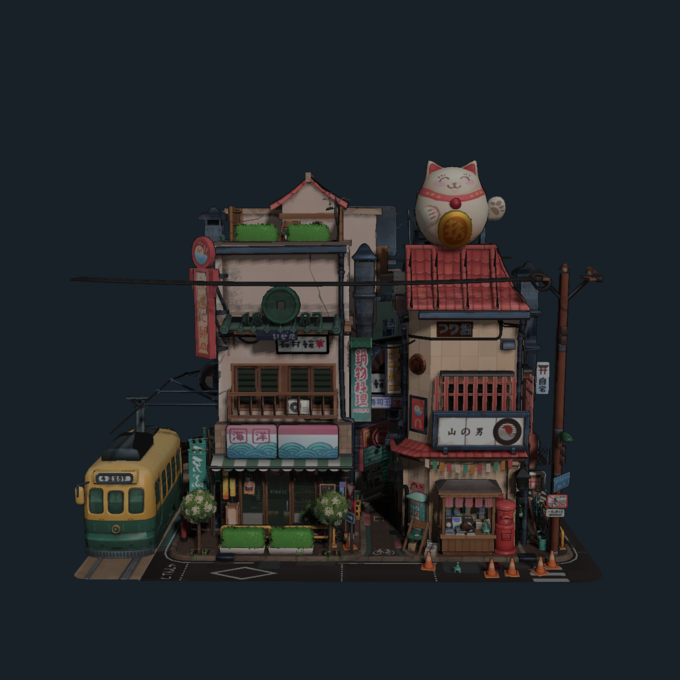
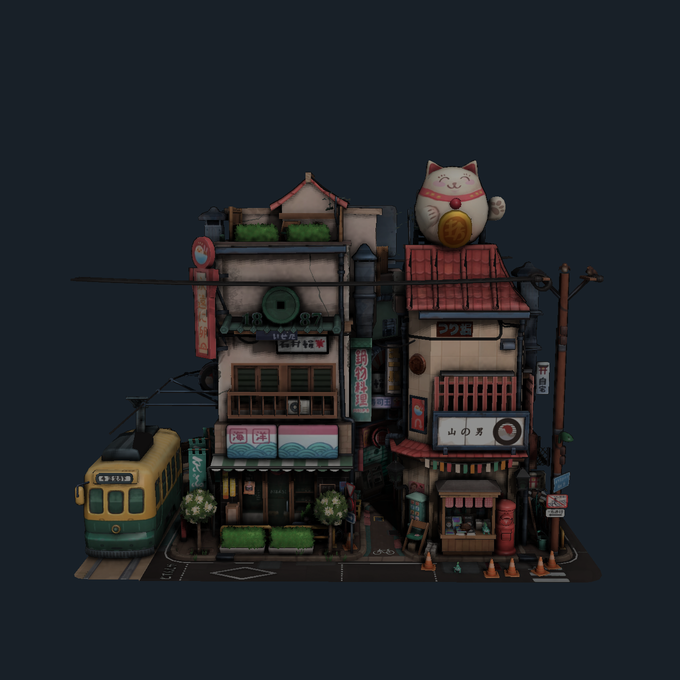
docs(readme): show ambient occlusion in the glTF examples
Add `ssao: true` to the Little Tokyo snippets and demo links in the root
and maquette-gltf READMEs and to the package README example, re-render
both images with AO and cache-bust them.

diff --git a/crates/maquette-gltf/README.md b/crates/maquette-gltf/README.md
@@ -34,12 +34,13 @@ Model reference: [Little Tokyo](https://sketchfab.com/3d-models/little-tokyo-dio
   auto_fit: false,
   background: "#182028",
   shadows: true,
+  ssao: true,
   time: 5.4,
 ))
 ```
 
 </td>
-<td><a href="https://bernsteining.github.io/maquette/?model=tokyo.glb&camera=%5B-71.915%2C159.083%2C1026.801%5D&center=%5B-86%2C5%2C-25%5D&up=%5B0%2C0.989%2C-0.145%5D&auto_center=false&auto_fit=false&background=%22%23182028%22&shadows=true&time=5.4" title="Open in the live demo"><img src="https://raw.githubusercontent.com/bernsteining/maquette/master/examples/readme/gltf-tokyo.png?v=3" width="340" alt="Little Tokyo diorama, front view" /></a></td>
+<td><a href="https://bernsteining.github.io/maquette/?model=tokyo.glb&camera=%5B-71.915%2C159.083%2C1026.801%5D&center=%5B-86%2C5%2C-25%5D&up=%5B0%2C0.989%2C-0.145%5D&auto_center=false&auto_fit=false&background=%22%23182028%22&shadows=true&ssao=true&time=5.4" title="Open in the live demo"><img src="https://raw.githubusercontent.com/bernsteining/maquette/master/examples/readme/gltf-tokyo.png?v=4" width="340" alt="Little Tokyo diorama, front view" /></a></td>
 </tr>
 <tr>
 <td>
@@ -53,11 +54,12 @@ Model reference: [Little Tokyo](https://sketchfab.com/3d-models/little-tokyo-dio
   up: (0.02, 0.991, -0.13),
   background: "#182028",
   shadows: true,
+  ssao: true,
 ))
 ```
 
 </td>
-<td><a href="https://bernsteining.github.io/maquette/?model=tokyo.glb&camera=%5B-714.868%2C125.157%2C793.581%5D&center=%5B-86%2C5%2C-25%5D&up=%5B0.02%2C0.991%2C-0.13%5D&background=%22%23182028%22&shadows=true" title="Open in the live demo"><img src="https://raw.githubusercontent.com/bernsteining/maquette/master/examples/readme/gltf-tokyo-camera.png?v=5" width="340" alt="Little Tokyo diorama from a side three-quarter angle" /></a></td>
+<td><a href="https://bernsteining.github.io/maquette/?model=tokyo.glb&camera=%5B-714.868%2C125.157%2C793.581%5D&center=%5B-86%2C5%2C-25%5D&up=%5B0.02%2C0.991%2C-0.13%5D&background=%22%23182028%22&shadows=true&ssao=true" title="Open in the live demo"><img src="https://raw.githubusercontent.com/bernsteining/maquette/master/examples/readme/gltf-tokyo-camera.png?v=6" width="340" alt="Little Tokyo diorama from a side three-quarter angle" /></a></td>
 </tr>
 </table>
 

diff --git a/README.md b/README.md
@@ -106,12 +106,13 @@ rotate([0, 90, 0]) rod(hole, len);
   auto_fit: false,
   background: "#182028",
   shadows: true,
+  ssao: true,
   time: 5.4,
 ))
 ```
 
 </td>
-<td><a href="https://bernsteining.github.io/maquette/?model=tokyo.glb&camera=%5B-71.915%2C159.083%2C1026.801%5D&center=%5B-86%2C5%2C-25%5D&up=%5B0%2C0.989%2C-0.145%5D&auto_center=false&auto_fit=false&background=%22%23182028%22&shadows=true&time=5.4" title="Open in the live demo"><img src="examples/readme/gltf-tokyo.png?v=3" width="340" alt="glTF Little Tokyo diorama rendered with PBR"></a></td>
+<td><a href="https://bernsteining.github.io/maquette/?model=tokyo.glb&camera=%5B-71.915%2C159.083%2C1026.801%5D&center=%5B-86%2C5%2C-25%5D&up=%5B0%2C0.989%2C-0.145%5D&auto_center=false&auto_fit=false&background=%22%23182028%22&shadows=true&ssao=true&time=5.4" title="Open in the live demo"><img src="examples/readme/gltf-tokyo.png?v=4" width="340" alt="glTF Little Tokyo diorama rendered with PBR"></a></td>
 </tr>
 </table>
 

diff --git a/crates/maquette-gltf/maquette-gltf/README.md b/crates/maquette-gltf/maquette-gltf/README.md
@@ -25,6 +25,7 @@ See the [documentation](https://github.com/bernsteining/maquette/blob/master/doc
   elevation: 15,
   ibl: (environment: "studio", intensity: 1.2),
   tone_mapping: "aces",
+  ssao: true,
   width: 480)
 ```
 
